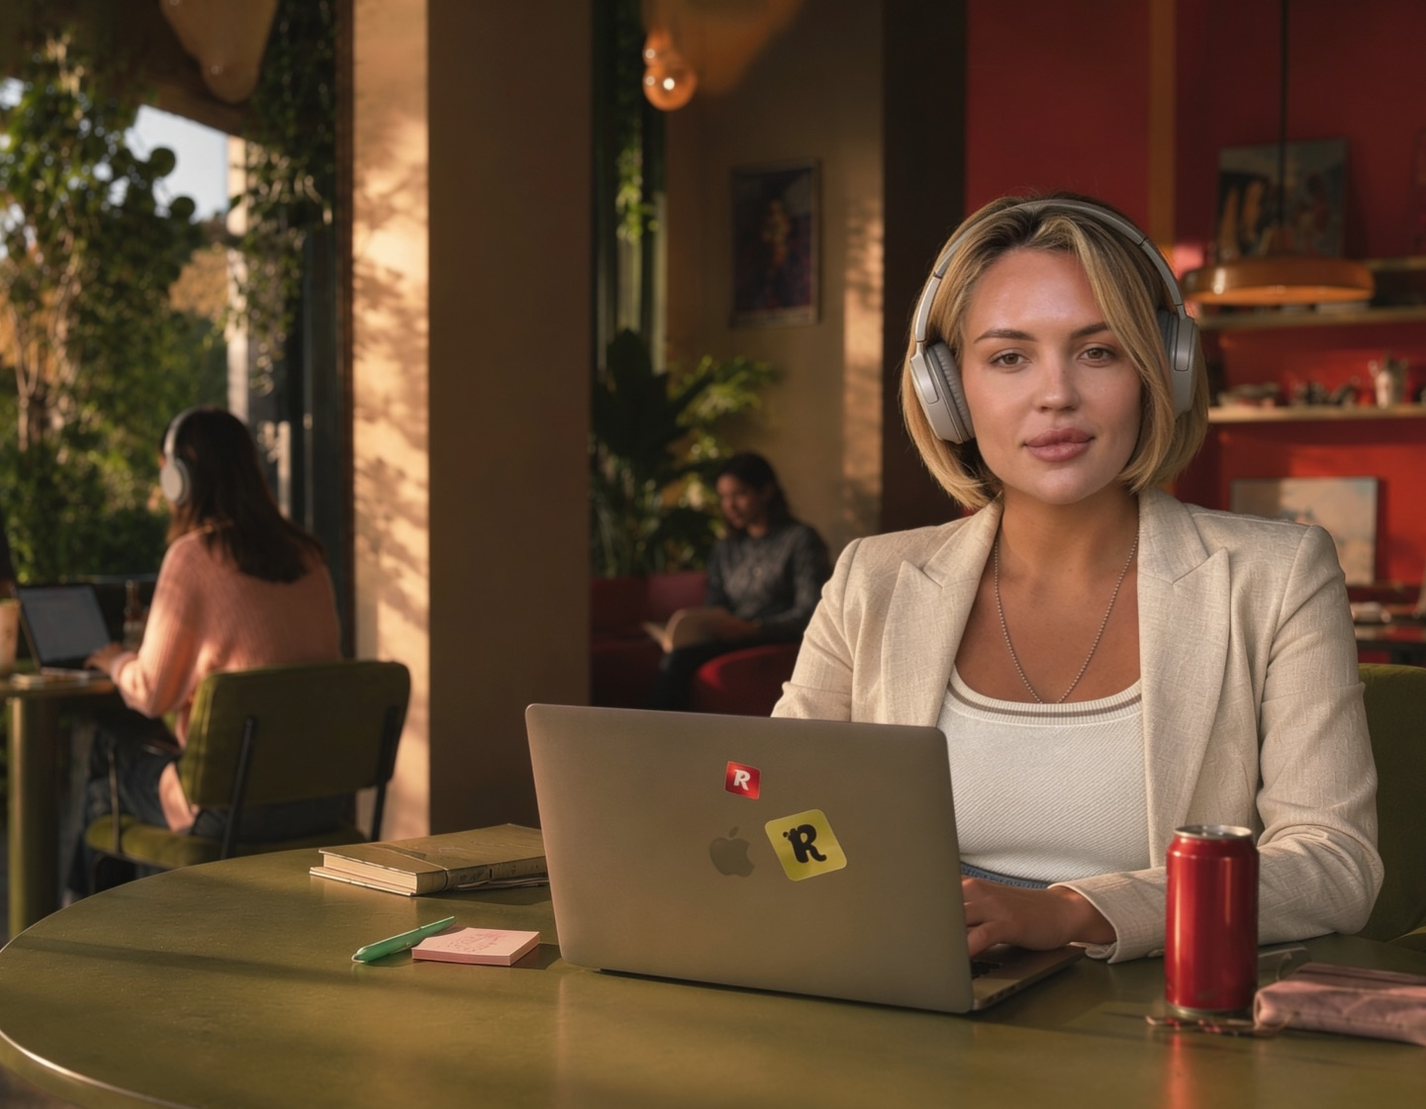
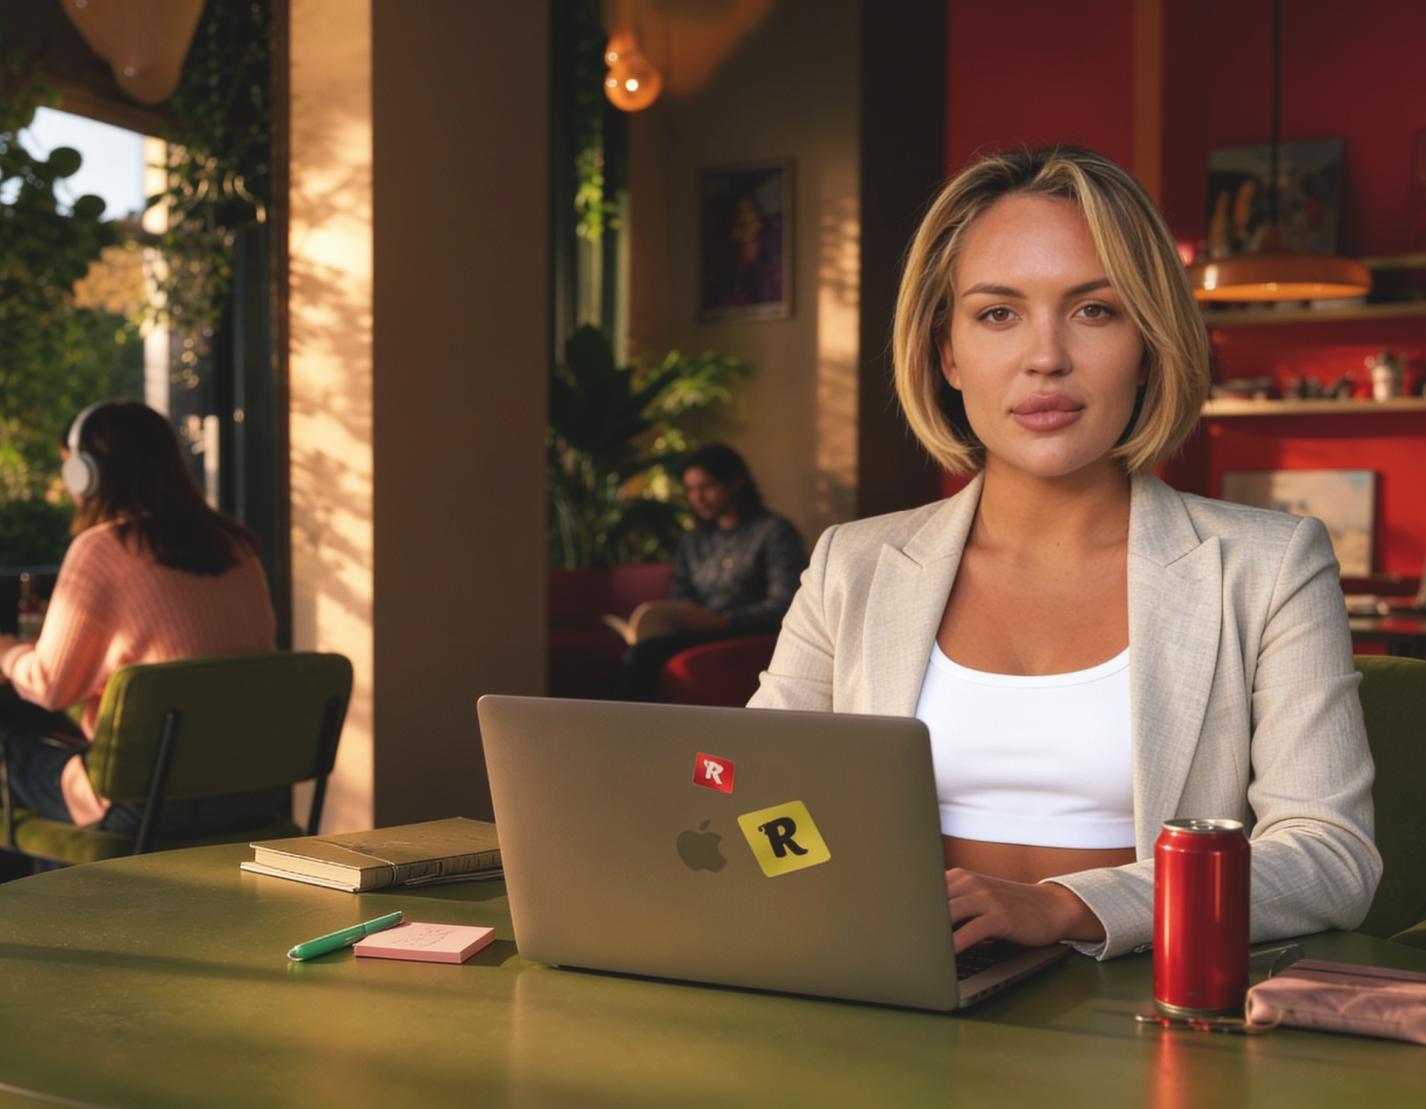
feat(landing): выравнивание с Figma — hero, nav, founder, тайпографика
Hero:
- Новая фотография (node 2208:717 из Figma), без наушников
- aspect-ratio 1441/1121 — блок держит пропорцию Figma на любой ширине
- glass 677×753, border-radius 29.5
- H1: uppercase + line-height 1.12 (baseline-to-baseline из Figma),
  переносы «ПРЕВРАТИ / СЫРОЙ АНГЛИЙСКИЙ / В СОЧНЫЙ / РАЗГОВОРНЫЙ»
- .lede: переносы в 3 строки
- CTA: «Узнай свой / уровень прожарки» в 2 строки
- «бесплатно»: 135.56×35.856, rotate +5.203° (было -8°)
- .bubble: 327.401×108.396, rotate -3.237°, bottom 26%

Nav:
- «Выучить английский» → nav-текст (не pill), в .nav-links
- gap 6 → 16 (в Figma 56px между текстами)
- Логотип 171×98

Founder:
- aspect-ratio 1441/1069, padding-bottom 129
- badge выровнен по левому краю
- bio grid: колонки 348+348 фикс
- Карточки: bio-green левая 348×684, bio-green правая 348×164,
  bio-dark 348×497; padding 45 43 45 53 (Figma)
- Тексты с явными <br /> per Figma layout
- Плашки: «Валерия» right:26% bottom:22%, 218.819×53.713 rot -3.079;
  «учить языку в лёгкости» right:5% bottom:10%, 342.708×53.774 rot +6.381;
  «миссия» 105.498×35.856 rot +15.311

Typography (замерил в Figma через get_design_context):
- badge-title: 44 → 40px (Figma spec)
- .raw2-fcard h3: 32 → 36px
- .raw2-quiz h2: 40 → 48px, line-height 1.05 → 1.173
- .raw2-quiz .lvlup: 28 → 32px
- .raw2-quiz .metric b: 40 → 45px
- .raw2-fcard p / .raw2-quiz .desc: line-height 1.05 → 0.96

diff --git a/public/landing/raw2/raw2.css b/public/landing/raw2/raw2.css
@@ -67,12 +67,11 @@ html:has(.raw2) { scroll-behavior: smooth; scroll-padding-top: 120px; }
 .raw2 .btn-arrow { width: 56px; height: 56px; border-radius: 50%; background: var(--lime); color: var(--ink); flex-shrink: 0; padding: 0; }
 .raw2 .btn-arrow svg { width: 26px; height: 26px; }
 
-/* section-title badge — Figma: Inter 700, 44px, -2px, 117.3%
-   (замерил в Figma: «Первое бесплатное занятие» h=47 → font ~44px) */
+/* section-title badge — Figma: Inter 700, 40px, letter-spacing -5%, line-height 117% */
 .raw2 .badge-title {
-  display: inline-block; text-align: center; line-height: 1.173;
+  display: inline-block; text-align: center; line-height: 1.17;
   font-weight: 700; text-transform: uppercase; letter-spacing: -0.05em;
-  font-size: clamp(1.5rem, 3.4vw, 44px);
+  font-size: clamp(1.5rem, 3.2vw, 40px);
   padding: 16px 40px; border-radius: var(--radius-pill);
 }
 .raw2 .badge-title--lime   { background: var(--lime); color: var(--ink); }
@@ -88,8 +87,10 @@ html:has(.raw2) { scroll-behavior: smooth; scroll-padding-top: 120px; }
   gap: 24px; padding: 26px 40px;
 }
 .raw2-nav .brand { display: flex; flex-direction: column; line-height: 1; }
-.raw2-nav .brand .logo-img { height: 52px; width: auto; aspect-ratio: 171 / 98; display: block; }
-.raw2-nav .nav-links { display: flex; align-items: center; gap: 6px; list-style: none; }
+/* Figma: 171×98 */
+.raw2-nav .brand .logo-img { width: 171px; height: 98px; display: block; }
+/* Figma: расстояние между текстами пунктов = 56px (замерил) → gap 16 + padding 20×2 */
+.raw2-nav .nav-links { display: flex; align-items: center; gap: 16px; list-style: none; }
 /* hover/active state (Figma «при нажатии»): lime pill + dark text */
 .raw2-nav .nav-links a { color: #fff; font-size: 18px; font-weight: 500; letter-spacing: -0.9px; line-height: 0.975; padding: 11px 20px; border-radius: var(--radius-pill); transition: background .2s, color .2s; }
 .raw2-nav .nav-links a:hover { background: var(--lime); color: var(--ink); }
@@ -111,20 +112,26 @@ html:has(.raw2) { scroll-behavior: smooth; scroll-padding-top: 120px; }
 /* ============================================================
    HERO
    ============================================================ */
+/* Figma frame: 1441×1121 → держим точный aspect на всех широких экранах,
+   не даём растянуться по высоте при wide viewport (иначе фото режется по бокам) */
 .raw2-hero {
-  position: relative; min-height: 100vh; display: flex; align-items: center;
+  position: relative; aspect-ratio: 1441 / 1121; min-height: 600px; display: flex; align-items: center;
   background-size: cover; background-position: center;
   padding: 140px 0 90px;
 }
 .raw2-hero::after { content: ''; position: absolute; inset: 0; background: linear-gradient(90deg, rgba(0,0,0,.45) 0%, rgba(0,0,0,.15) 55%, rgba(0,0,0,0) 100%); z-index: 1; }
 .raw2-hero .wrap { position: relative; z-index: 2; }
+/* Figma: 677×753, border-radius 29.5 */
 .raw2-hero .glass {
-  max-width: 580px; padding: 46px 48px; border-radius: 34px;
+  width: 677px; max-width: 100%; min-height: 753px; padding: 46px 48px; border-radius: 29.5px;
   background: rgba(20,16,14,.34); backdrop-filter: blur(14px); -webkit-backdrop-filter: blur(14px);
   border: 1px solid rgba(255,255,255,.14);
 }
 /* Figma: 48px, 700, -2.4px, 96.96% */
-.raw2-hero h1 { font-size: clamp(2rem, 4.2vw, 48px); color: #fff; font-weight: 700; letter-spacing: -0.05em; line-height: 0.97; }
+/* Figma: 48px / 700 / -2.4px (-0.05em) / uppercase.
+   Внутренняя leading 96.96%, но baseline-to-baseline между <p> ≈ 1.115
+   (214px контейнер / 4 строки / 48px) — воспроизводим через line-height. */
+.raw2-hero h1 { font-size: clamp(2rem, 4.2vw, 48px); color: #fff; font-weight: 700; letter-spacing: -0.05em; line-height: 1.12; text-transform: uppercase; }
 .raw2-hero h1 .c-lime { color: var(--lime); }
 /* subtitle Figma: 30px, 500, -1.5px, 97.5% */
 .raw2-hero .lede { margin: 26px 0 34px; color: #fff; font-size: clamp(1.2rem,2.2vw,30px); font-weight: 500; line-height: 0.975; letter-spacing: -1.5px; text-transform: none; }
@@ -135,23 +142,26 @@ html:has(.raw2) { scroll-behavior: smooth; scroll-padding-top: 120px; }
   font-weight: 700; text-transform: uppercase; font-size: clamp(1.5rem,2.9vw,40px); line-height: 1.06282;
   letter-spacing: -2px; padding: 22px 30px; border-radius: 22px; max-width: 500px;
 }
-/* "бесплатно" Figma: 20px, Medium 500, -1px */
+/* «бесплатно» Figma: 20px / 500 / -1px + плашка 135.56×35.856 / rotate(5.203deg) */
 .raw2-hero .cta-red .free {
   position: absolute; top: -18px; right: 20px; background: var(--lime); color: var(--ink);
   font-size: 20px; font-weight: 500; letter-spacing: -1px; text-transform: none;
-  padding: 5px 18px; border-radius: 999px; transform: rotate(-8deg);
+  width: 135.56px; height: 35.856px; padding: 0; display: inline-flex; align-items: center; justify-content: center;
+  border-radius: 999px; transform: rotate(5.203deg);
 }
 .raw2-hero .cta-row { display: flex; align-items: center; gap: 4px; margin-top: 22px; }
 /* "пройти тест" Figma: 32px, 700, -1.6px, lowercase */
 .raw2-hero .cta-row .btn-lime { text-transform: none; font-weight: 700; font-size: clamp(1.3rem,2.3vw,32px); letter-spacing: -0.05em; }
 
-/* speech bubble Figma: 20px, 700, -1px, 97.46%, #DFED8C */
+/* speech bubble Figma: 20px, 700, -1px, 97.46%, #DFED8C, 327.401×108.396, rotate -3.237 */
 .raw2-hero .bubble {
-  position: absolute; right: 3%; bottom: 30%; z-index: 2; max-width: 335px;
+  position: absolute; right: 3%; bottom: 26%; z-index: 2;
+  width: 327.401px; height: 108.396px;
   background: rgba(30,30,30,.42); backdrop-filter: blur(8px); color: #DFED8C;
-  padding: 16px 22px; border-radius: 22px;
+  padding: 16px 22px; border-radius: 29.5px;
+  display: flex; align-items: center;
   font-size: 20px; font-weight: 700; line-height: 97.46%; letter-spacing: -1px;
-  transform: rotate(-4deg);
+  transform: rotate(-3.237deg);
 }
 
 /* ============================================================
@@ -203,8 +213,8 @@ html:has(.raw2) { scroll-behavior: smooth; scroll-padding-top: 120px; }
 /* card title Figma: ~36px, 700, -1.8px, 97.5%
    (замерил: «Разговорные клубы» 2 строки h=70 → font ~35, «Индивидуальные уроки» h=78 → ~39) */
 .raw2-fcard h3 { font-size: clamp(1.4rem,2.5vw,36px); font-weight: 700; margin-bottom: 16px; text-transform: none; letter-spacing: -0.05em; line-height: 0.975; }
-/* card body Figma: 28px, 500, -1.4px, 96% */
-.raw2-fcard p { font-size: clamp(1.05rem,1.7vw,24px); font-weight: 500; color: var(--ink); line-height: 1.05; letter-spacing: -0.04em; }
+/* card body Figma: 24px, 500, -1.4px, 96% */
+.raw2-fcard p { font-size: clamp(1.05rem,1.7vw,24px); font-weight: 500; color: var(--ink); line-height: 0.96; letter-spacing: -0.058em; }
 .raw2-fcard p b { color: var(--ink); font-weight: 700; }
 
 /* ============================================================
@@ -216,15 +226,16 @@ html:has(.raw2) { scroll-behavior: smooth; scroll-padding-top: 120px; }
   display: grid; grid-template-columns: 1fr 1fr; gap: 40px; align-items: center;
 }
 /* title Figma: 40px, 700, -2px, 117.3% */
-/* «Проверь свою прожарку» Figma: ~48px (замерил h=85 на 2 строках → font ~42-45) */
-.raw2-quiz h2 { font-size: clamp(1.8rem,3.4vw,48px); letter-spacing: -0.05em; line-height: 1.05; }
+/* «Проверь свою прожарку» Figma: 48px / 700 / -2px / 117.3% */
+.raw2-quiz h2 { font-size: clamp(1.8rem,3.4vw,48px); letter-spacing: -0.05em; line-height: 1.173; }
 /* "Level up или stay raw?" Figma: 28px, 700, -1.4px, 111.3% */
 /* «Level up или stay raw?» Figma: ~32px (h=33 на 1 строке → font ~32) */
 .raw2-quiz .lvlup { font-size: clamp(1.4rem,2.4vw,32px); font-weight: 700; letter-spacing: -0.05em; line-height: 1.113; margin: 18px 0 14px; text-transform: none; }
 .raw2-quiz .lvlup .up { color: var(--lime-dark); }
 .raw2-quiz .lvlup .raw { color: var(--red-accent); }
 /* body Figma: 24px, 500, -1.2px */
-.raw2-quiz .desc { font-size: clamp(1.05rem,1.7vw,24px); font-weight: 500; color: var(--ink); text-transform: none; line-height: 1.05; letter-spacing: -0.04em; }
+/* Figma: 24px / 500 / -1.2px / 96% */
+.raw2-quiz .desc { font-size: clamp(1.05rem,1.7vw,24px); font-weight: 500; color: var(--ink); text-transform: none; line-height: 0.96; letter-spacing: -0.05em; }
 .raw2-quiz .desc b { color: var(--red-accent); font-weight: 700; }
 .raw2-quiz .right { display: flex; flex-direction: column; gap: 26px; }
 .raw2-quiz .metrics { display: flex; gap: 30px; }
@@ -244,17 +255,26 @@ html:has(.raw2) { scroll-behavior: smooth; scroll-padding-top: 120px; }
 /* ============================================================
    SECTION: founder (dark photo)
    ============================================================ */
-.raw2-founder { position: relative; background: #1a1714 center/cover; padding: 90px 0 110px; color: #fff; }
+/* Figma frame: 1441×1069 → aspect-ratio 1441/1069 ≈ 74.2vw
+   Держим пропорцию до 1441px, потом капим на 1069.
+   padding-bottom 129px — расстояние от bio-карточек до низа секции (замер Figma). */
+.raw2-founder { position: relative; background: #1a1714 center/cover; padding: 90px 0 129px; color: #fff; min-height: clamp(600px, 74.2vw, 1069px); }
 .raw2-founder::before { content:''; position:absolute; inset:0; background: linear-gradient(90deg, rgba(15,13,11,.9) 0%, rgba(15,13,11,.55) 45%, rgba(15,13,11,.05) 75%); }
 .raw2-founder .wrap { position: relative; z-index: 2; }
-.raw2-founder .badge-title { margin-bottom: 46px; border-radius: 29.5px; }
-.raw2-founder .bio { display: grid; grid-template-columns: 1fr 1fr; gap: 26px; max-width: 830px; align-items: stretch; }
+.raw2-founder .badge-title { margin-bottom: 46px; border-radius: 29.5px; text-align: left; }
+/* Figma: левая колонка 348×684, padding 45 43 45 53 */
+.raw2-founder .bio { display: grid; grid-template-columns: 348px 348px; gap: 26px; max-width: 722px; align-items: stretch; }
 .raw2-founder .bio-col { display: flex; flex-direction: column; gap: 26px; }
 /* bio Figma: 28px, 500, -1.4px, 96%; заливки: зелёная rgba(146,157,79,.39) / тёмная rgba(30,30,30,.58) */
 .raw2-founder .bio-card {
-  backdrop-filter: blur(6px); border-radius: 30px; padding: 28px 30px;
+  width: 348px; backdrop-filter: blur(6px); border-radius: 30px; padding: 45px 43px 45px 53px;
   font-size: clamp(1.05rem,1.7vw,24px); font-weight: 500; line-height: 1.1; letter-spacing: -0.04em; text-transform: none;
 }
+.raw2-founder .bio > .bio-card { min-height: 684px; }
+/* правая верхняя карточка (green, «Бабушка») Figma: 348×164 */
+.raw2-founder .bio-col .bio-green { min-height: 164px; }
+/* правая нижняя карточка (dark) Figma: 348×497 */
+.raw2-founder .bio-col .bio-dark { min-height: 497px; }
 .raw2-founder .bio-green { background: rgba(146,157,79,0.39); }
 .raw2-founder .bio-dark { background: rgba(30,30,30,0.58); }
 .raw2-founder .bio-card ul { list-style: none; display: flex; flex-direction: column; gap: 20px; }
@@ -262,12 +282,14 @@ html:has(.raw2) { scroll-behavior: smooth; scroll-padding-top: 120px; }
 .raw2-founder .bio-card li::before { content:'•'; position:absolute; left: 0; color:#fff; }
 .raw2-founder .bio-card b.lime { color: var(--lime); font-weight: 700; }
 .raw2-founder .bio-card b.red  { color: var(--red-accent); font-weight: 700; }
-.raw2-founder .tags { position: absolute; right: 5%; bottom: 17%; z-index: 3; display: flex; flex-direction: column; align-items: flex-end; gap: 26px; }
-/* tags Figma: 24px, 700, -1.2px — слегка повёрнуты */
-.raw2-founder .tag-name { background: var(--red-accent); color: #fff; font-weight: 700; font-size: clamp(1.1rem,1.6vw,24px); letter-spacing: -0.05em; padding: 10px 24px; border-radius: 999px; transform: rotate(-4deg); box-shadow: 0 6px 16px rgba(0,0,0,.18); }
-.raw2-founder .tag-mission { position: relative; background: var(--lime); color: var(--ink); font-weight: 700; font-size: clamp(1.1rem,1.6vw,24px); letter-spacing: -0.05em; padding: 12px 26px; border-radius: 999px; transform: rotate(-8deg); box-shadow: 0 6px 16px rgba(0,0,0,.18); }
+/* tags Figma: 24px, 700, -1.2px — «Валерия» слева, «учить языку» справа-ниже
+   (не в одной колонке справа, а раскиданы по нижней части фото) */
+.raw2-founder .tags { position: absolute; inset: 0; z-index: 3; pointer-events: none; }
+.raw2-founder .tags > * { pointer-events: auto; }
+.raw2-founder .tag-name { position: absolute; right: 26%; bottom: 22%; width: 218.819px; height: 53.713px; display: inline-flex; align-items: center; justify-content: center; background: var(--red-accent); color: #fff; font-weight: 700; font-size: clamp(1.1rem,1.6vw,24px); letter-spacing: -0.05em; padding: 0; border-radius: 999px; transform: rotate(-3.079deg); box-shadow: 0 6px 16px rgba(0,0,0,.18); }
+.raw2-founder .tag-mission { position: absolute; right: 5%; bottom: 10%; width: 342.708px; height: 53.774px; display: inline-flex; align-items: center; justify-content: center; background: var(--lime); color: var(--ink); font-weight: 700; font-size: clamp(1.1rem,1.6vw,24px); letter-spacing: -0.05em; padding: 0; border-radius: 999px; transform: rotate(6.381deg); box-shadow: 0 6px 16px rgba(0,0,0,.18); }
 /* "миссия" Figma: 20px, 500, -1px — на верхнем-правом углу лаймовой плашки */
-.raw2-founder .tag-mission .mi { position: absolute; top: -18px; right: 2px; background: var(--red-accent); color: #fff; font-size: 20px; font-weight: 500; letter-spacing: -1px; padding: 4px 16px; border-radius: 999px; box-shadow: 0 4px 4px rgba(0,0,0,.25); }
+.raw2-founder .tag-mission .mi { position: absolute; top: -22px; right: -8px; width: 105.498px; height: 35.856px; display: inline-flex; align-items: center; justify-content: center; background: var(--red-accent); color: #fff; font-size: 20px; font-weight: 500; letter-spacing: -1px; padding: 0; border-radius: 999px; transform: rotate(15.311deg); box-shadow: 0 4px 4px rgba(0,0,0,.25); }
 
 /* ============================================================
    SECTION: первое бесплатное занятие (lime)

diff --git a/src/app/(marketing)/_landing/raw2/LandingRaw2.tsx b/src/app/(marketing)/_landing/raw2/LandingRaw2.tsx
@@ -280,9 +280,9 @@ export default function LandingRaw2() {
           <li><a href="#founder">Преподаватели</a></li>
           <li><a href="#price">Стоимость</a></li>
           <li><a href="#" onClick={(e) => { e.preventDefault(); setQuizOpen(true); }}>Пройти тест</a></li>
+          <li><a href={CONTACT_HREF}>Выучить английский</a></li>
         </ul>
         <div className="nav-actions">
-          <a href={CONTACT_HREF} className="pill pill-lime">Выучить английский</a>
           <button type="button" className="pill pill-red" onClick={openAuth}>Личный кабинет</button>
         </div>
       </nav>
@@ -291,11 +291,11 @@ export default function LandingRaw2() {
       <header className="raw2-hero" style={{ backgroundImage: "url(/landing/raw2/hero.jpg)" }}>
         <div className="wrap">
           <div className="glass">
-            <h1>Преврати сырой английский в <span className="c-lime">сочный разговорный</span></h1>
-            <p className="lede">Без скуки, без зубрёжки, в компании таких же голодных до языка людей.</p>
+            <h1>Преврати<br />сырой английский<br />в <span className="c-lime">сочный<br />разговорный</span></h1>
+            <p className="lede">Без скуки, без зубрёжки,<br />в компании таких же голодных<br />до языка людей.</p>
             <button type="button" className="cta-red" onClick={() => setQuizOpen(true)}>
               <span className="free">бесплатно</span>
-              Узнай свой уровень прожарки
+              Узнай свой<br />уровень прожарки
             </button>
             <div className="cta-row">
               <button type="button" className="btn btn-lime" onClick={() => setQuizOpen(true)}>пройти тест</button>
@@ -368,20 +368,20 @@ export default function LandingRaw2() {
           <div className="bio">
             <div className="bio-card bio-green">
               <ul>
-                <li>Два высших образования: маркетинг, в университете <b className="lime">Хартфордшира, Великобритания</b> и филологический факультет педагогического направления в <b className="lime">Южном федеральном университете.</b></li>
-                <li>Начинала преподавать по объявлению, затем работала <b className="lime">в самой популярной школе</b> английского в Ростове.</li>
+                <li>Два высших<br />образования:<br />маркетинг,<br />в университете<br /><b className="lime">Хартфордшира,<br />Великобритания</b><br />и филологический<br />факультет<br />педагогического<br />направления<br />в <b className="lime">Южном<br />федеральном<br />университете.</b></li>
+                <li>Начинала преподавать<br />по объявлению, затем работала<br /><b className="lime">в самой популярной школе</b> английского<br />в Ростове.</li>
               </ul>
             </div>
             <div className="bio-col">
               <div className="bio-card bio-green">
                 <ul>
-                  <li>Бабушка учила её английскому <b className="lime">с 5 лет.</b></li>
+                  <li>Бабушка учила<br />её английскому<br /><b className="lime">с 5 лет.</b></li>
                 </ul>
               </div>
               <div className="bio-card bio-dark">
                 <ul>
-                  <li>Решила создать школу, где английский становится частью жизни и <b className="red">учится с удовольствием.</b></li>
-                  <li>В планах — выход на новый уровень: обучать сотрудников компаний, <b className="red">помогать бизнесу расти</b> через английский.</li>
+                  <li>Решила создать<br />школу, где<br />английский<br />становится частью<br />жизни и <b className="red">учится с<br />удовольствием.</b></li>
+                  <li>В планах — выход<br />на новый уровень:<br />обучать<br />сотрудников<br />компаний, <b className="red">помогать<br />бизнесу расти</b><br />через английский.</li>
                 </ul>
               </div>
             </div>
